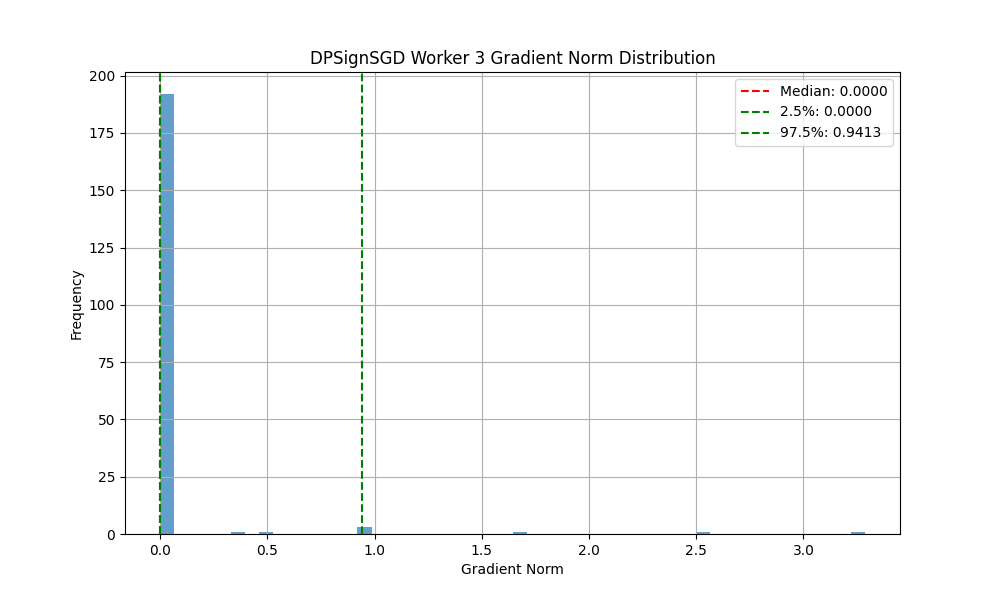
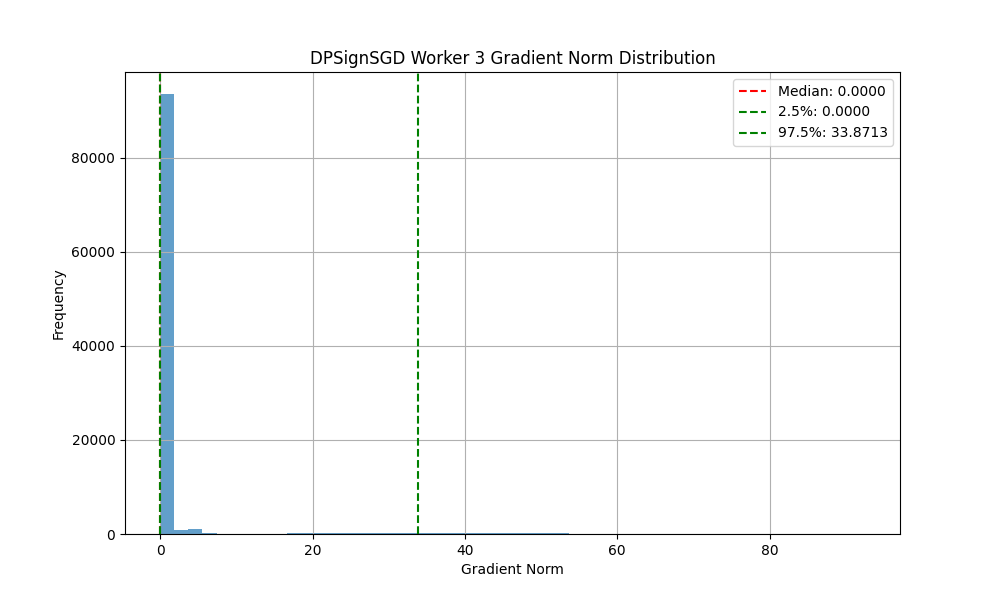
Experiment on MNIST done, results are sad

diff --git a/code/gpt_majority_sign.py b/code/gpt_majority_sign.py
@@ -31,24 +31,24 @@ DEFAULT_CONFIG = {
     'algorithms': {
         'signsgd': {
             'enabled': True,
-            'num_epochs': 10,
+            'num_epochs': 50,
             'lr_scheduler': lambda t: 0.02 / (t + 1)**(1/4),
-            'poisson_qn': 50,
+            'poisson_qn': 10,
             'color': 'b'
         },
         'dpsignsgd': {
             'enabled': True,
-            'num_epochs': 200,
+            'num_epochs': 500,
             'lr_scheduler': lambda t: 0.02 / (t + 1)**(1/5), # lambda t: 1 / math.sqrt(128 * 784 * 2 * 50 * 30),
-            'poisson_qn': 50,
+            'poisson_qn': 10,
             'clipping_level': lambda t: 10 / (t + 1)**(1/6),  # Dynamic clipping level
             'color': 'g'
         },
         'fedsgd': {
             'enabled': True,
-            'num_epochs': 10,
+            'num_epochs': 50,
             'lr_scheduler': lambda t: 0.05,
-            'poisson_qn': 20,
+            'poisson_qn': 10,
             'color': 'r'
         }
     }
